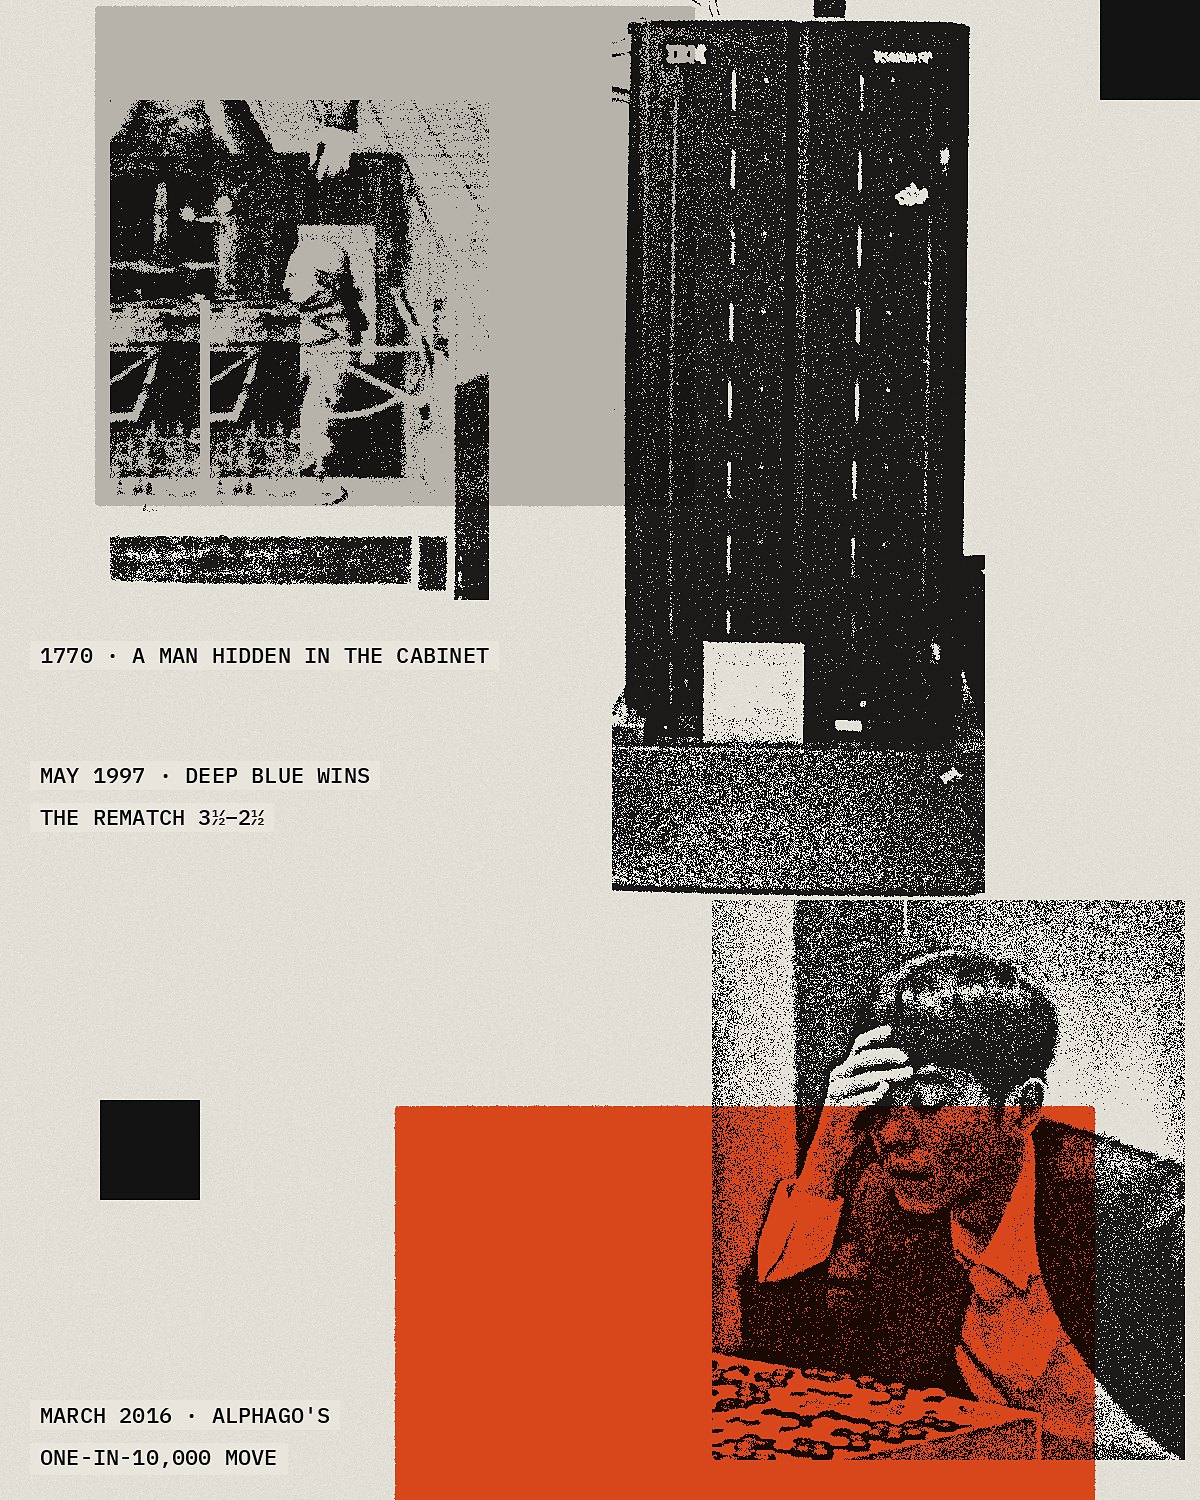
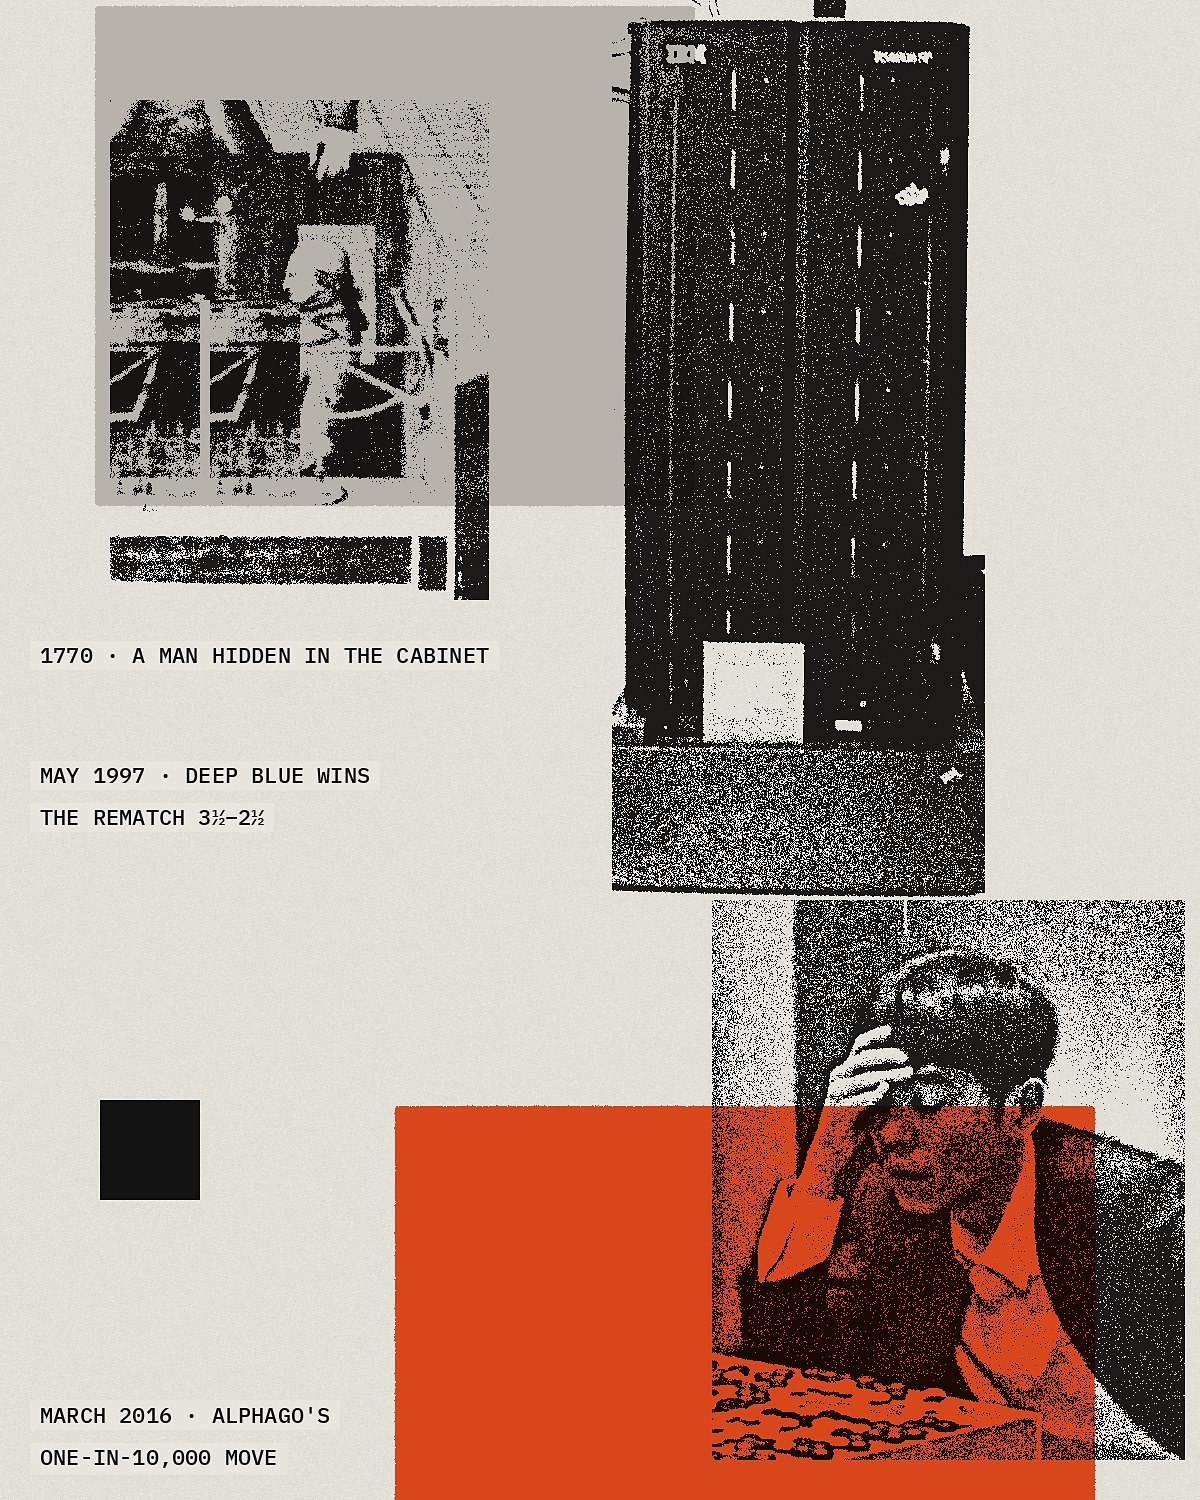
Experiment: a registration square slides into place with scroll, smoothly, beside the glitch
Owner's idea: one black square moves like a dial, so the reader sees the motion is theirs.
It locks onto the grid as the card reaches the middle of the screen. The card images leave
that square out and the page draws it; it sits in place without script or with reduced motion.

Claude-Session: https://claude.ai/code/session_01Sc1pzyhKsrC3mM6v1oVhk6

Changed region(s): [[0.8942, 0.0, 1.0, 0.092]]

diff --git a/src/styles/site.css b/src/styles/site.css
@@ -249,6 +249,9 @@ a.hist:hover .ht { text-decoration: underline; }
 .gl-frame { position: relative; }
 .gl { position: absolute; inset: 0; overflow: hidden; pointer-events: none; }
 .gl i { position: absolute; display: block; background-repeat: no-repeat; }
+/* the registration square: drawn by the page, in place without script or with reduced motion */
+.gl-reg { position: absolute; left: calc(100% * 7 / 22); top: 0; width: calc(100% / 22); height: 10%; background: rgb(20, 19, 19); will-change: transform; }
+@media (max-width: 640px) { .gl-reg { left: calc(100% * 11 / 12); width: calc(100% / 12); height: calc(100% / 15); } }
 .hc-side { display: grid; grid-template-columns: calc(var(--c) * 5 + var(--g) * 4) minmax(0, 1fr); column-gap: var(--g); row-gap: 28px; align-items: start; margin-top: 12px; }
 .hc-body { display: flex; flex-direction: column; gap: 12px; }
 .hc-t { margin: 0; font-size: 32px; line-height: 36px; font-weight: 600; letter-spacing: -0.015em; }

diff --git a/scripts/collages.py b/scripts/collages.py
@@ -208,7 +208,7 @@ SPECS = [
     # History of AI: three machines at play (owner, 21 Nov 2026). The two stills of people are the owner's exception to the
     # no-people rule, cleared by the owner; the Turk is public domain.
     dict(id='collage-history', size=HISTORY, colour=GREY, seed=1770,
-         fields=[(0, 1, 7, 8), (15, 1, 7, 8, ORANGE)], black=[(7, 0, 1, 1), (21, 9, 1, 1)],
+         fields=[(0, 1, 7, 8), (15, 1, 7, 8, ORANGE)], black=[(21, 9, 1, 1)],
          fragments=[
              dict(img='turk-racknitz-1789.jpg', box=(735, 700), crop=(0.13, 0.115, 0.94, 0.96), how='screen', level=0.33, blur=1.3, at=(40, 150)),
              dict(img='kasparov-1997-still.jpg', box=(860, 859), crop=(0.0, 0.04, 0.53, 1.0), how='screen', level=0.36, detail=1.2, blur=1.0, at=(620, 60),
@@ -230,7 +230,7 @@ SPECS = [
     # Second states of the History card for its glitch animation (experiment, 21 Nov): the same grid, so any square can swap in.
     # The Turk shows the man hidden inside, Kasparov's columns show Deep Blue, Lee Sedol comes closer, the fields slip one square.
     dict(id='collage-history-b', size=HISTORY, colour=GREY, seed=1771,
-         fields=[(1, 0, 7, 8), (14, 2, 7, 8, ORANGE)], black=[(7, 0, 1, 1), (21, 9, 1, 1)],
+         fields=[(1, 0, 7, 8), (14, 2, 7, 8, ORANGE)], black=[(21, 9, 1, 1)],
          fragments=[
              dict(img='turk-racknitz-1789.jpg', box=(530, 700), crop=(0.42, 0.40, 0.78, 0.92), how='screen', level=0.34, blur=1.4, at=(150, 190)),
              dict(img='deep-blue-chm.jpg', box=(373, 900), crop=(0.27, 0.23, 0.65, 0.84), how='screen', level=0.38, detail=1.5, blur=0.8, at=(912, 40), keep=[(9, 0, 4, 10)]),
@@ -238,7 +238,7 @@ SPECS = [
          shift=[(3, 5, 1, 2, 1, 0)],
          labels=[('1770 · A MAN HIDDEN IN THE CABINET', 40, 960), ('MAY 1997 · DEEP BLUE WINS THE REMATCH 3½–2½', 700, 960), ("MARCH 2016 · ALPHAGO'S ONE-IN-10,000 MOVE", 1500, 960)]),
     dict(id='collage-history-tall-b', size=PAGE, colour=GREY, seed=1771,
-         fields=[(1, 0, 6, 5), (4, 11, 7, 4, ORANGE)], black=[(11, 0, 1, 1), (1, 11, 1, 1)],
+         fields=[(1, 0, 6, 5), (4, 11, 7, 4, ORANGE)], black=[(1, 11, 1, 1)],
          fragments=[
              dict(img='turk-racknitz-1789.jpg', box=(379, 500), crop=(0.42, 0.40, 0.78, 0.92), how='screen', level=0.34, blur=1.4, at=(110, 100)),
              dict(img='deep-blue-chm.jpg', box=(373, 900), crop=(0.27, 0.23, 0.65, 0.84), how='screen', level=0.38, detail=1.5, blur=0.8, at=(612, 0), keep=[(6, 0, 4, 9)]),
@@ -338,6 +338,11 @@ SPECS = [
          shift=[(3, 4, 2, 2, 1, 0), (7, 8, 1, 2, 0, -1)], invert=[(8, 2, 1, 1)],
          labels=[('ABOUT $5 A NET', 40, 1150), ('$5,500 PER LIFE SAVED · GIVEWELL, 2021–23', 40, 1192), ('BED NETS READY FOR DISTRIBUTION', 40, 1440)]),
 ]
+
+# The home page's vertical card: the same as the history page's, without its top-right square, which the page
+# draws and slides into place as the reader scrolls (the registration square, experiment 21 Nov).
+_tall = next(x for x in SPECS if x['id'] == 'collage-history-tall')
+SPECS.append(dict(_tall, id='collage-history-tall-home', black=[(1, 11, 1, 1)]))
 
 if __name__ == '__main__':
     import os, sys
